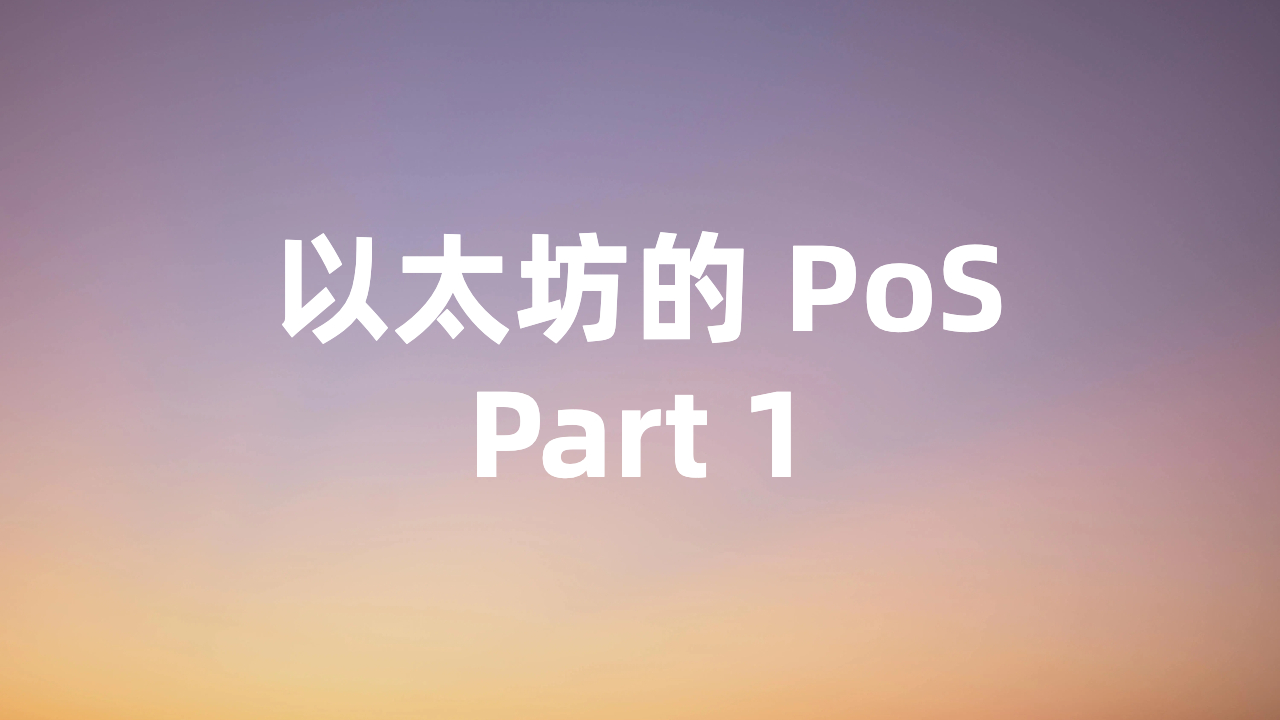
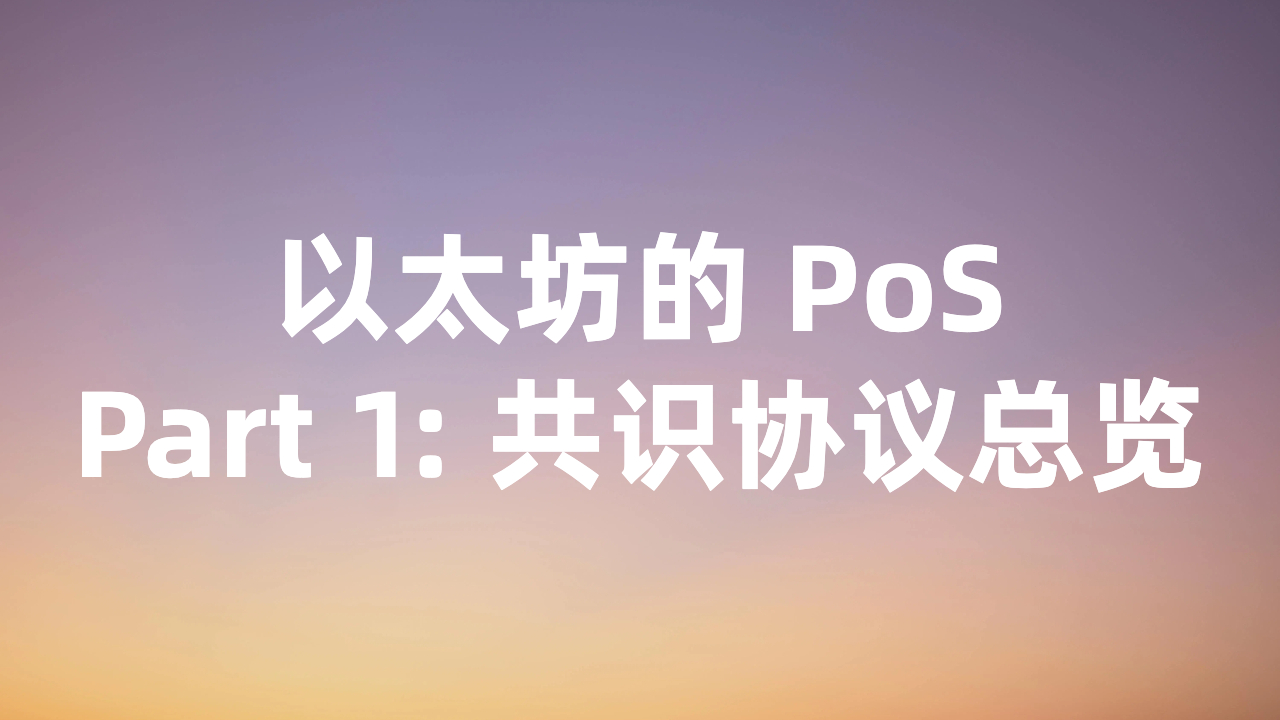
fix

Changed region(s): [[0.375, 0.5194, 0.9375, 0.7028], [0.0625, 0.5194, 0.25, 0.6722], [0.2812, 0.5194, 0.3438, 0.6722]]

diff --git a/_includes/head.html b/_includes/head.html
@@ -1,6 +1,9 @@
 <head>
     {% include meta.html %}
 	{% seo %}
+	{% unless page.no_latex %}
+        {% include latex.html %}
+    {% endunless %}
     <link rel="stylesheet" href="{% if site.baseurl %}{{site.baseurl}}{% else %}{% endif %}/assets/css/style.css">
     <script src="https://kit.fontawesome.com/6a97161b76.js" crossorigin="anonymous"></script>
     <link rel="shortcut icon" href="{% if site.favicon-url %}{{site.favicon-url}}{% else %}{{ 'assets/images/logo.png' | absolute_url }}{% endif %}" type="image/x-icon">

diff --git a/_includes/latex.html b/_includes/latex.html
@@ -1,0 +1,16 @@
+<script type="text/x-mathjax-config">
+MathJax.Hub.Config({
+    TeX: {
+        equationNumbers: {
+            autoNumber: "AMS"
+        }
+    },
+    tex2jax: {
+        inlineMath: [ ['$','$'] ],
+        displayMath: [ ['$$','$$'] ],
+        processEscapes: true,
+    }
+});
+</script>
+<script type="text/javascript" src="https://cdnjs.cloudflare.com/ajax/libs/mathjax/2.7.1/MathJax.js?config=TeX-AMS-MML_HTMLorMML">
+</script>

diff --git a/_posts/2024-08-29-ethereum-pos-p2.md b/_posts/2024-08-29-ethereum-pos-p2.md
@@ -1,0 +1,167 @@
+---
+title: 以太坊的 PoS - Part2 LMD GHOST
+layout: post
+post-image: "/assets/images/ethereum-pos-p2-img/head.jpg"
+tags:
+- ethereum
+- consensus
+- blockchain
+---
+
+# 再看共识协议
+
+---
+
+学习以太坊 PoS 时，可以发现所谓的共识协议不是一个单一的协议，而是以下三个部分的组合。
+
+- **Propose Rule**: 区块发布规则，负责打包区块并发布到链上，比如以太坊的 Propose Rule 是 Proof of Stake，比特币是 Proof of Work，BFT 共识则是通过多轮投票机制对一个提案进行确认并提交。
+- **Fork Choice Rule**: 分叉选择规则，负责在多个分叉中选择出权威链（canonical chain），使系统状态的一致性得到保证，同时也为系统提供了活性，。以太坊使用 LMD GHOST，比特币使用 Longest Chain，而 BFT 共识不会出现分叉，因此选择规则也无从谈起了。
+- **Finality Rule**: 最终确定性规则，负责最终敲定一个区块，使其永远无法被回滚，为该区块提供了绝对的安全性。以太坊使用 Casper FFG，比特币则不存在 Finality Rule，只是随着子块越来越多而无限趋近 Finality，而 BFT 共识每一个区块的提交即确定，Finality 的实现是即时的。
+
+可以发现，BFT 共识（例如前面介绍过的 HotStuff 或者 Tendermint）在这三个方面较为特殊，我们很难从中看出这三种规则，因为它们是浑然一体的。乍一看 BFT 共识协议简单清晰，不会分叉具有很高的安全性，同时每个块都具有最终确定性，但其最大缺点是需要满足恶意节点的权重 $<{1\above{1pt}3}$ 的拜占庭假设，否则就会丧失活性。相比安全性，活性是以太坊优先需要保证的（否则无法正常出块还谈什么安全性），为此以太坊使用了 LMD GHOST 作为 Fork Choice Rule。
+# 一些前置概念
+
+---
+
+下面介绍一些以太坊中的基本概念便于理解后文。
+
+- **Canonical Chain**: 权威链，被 Fork Choice Rule 选中的分叉即为权威链。
+- **Validator Set**: 参与质押的节点即可成为一个 Validator，多个 Validator 组成一个 Validator Set 负责一个 Slot 的出块。每次出块时会从 Validator 中选出一个 Proposer 负责打包区块，这是根据质押金作为权重随机选取的，即 PoS 原理。
+- **Slot**: Slot 是区块之间的最小间隔单位，相当于以太坊中的时间概念，共识是一个接一个 Slot 递进的。Slot 之间间隔为 12s，每个 Slot 出现时网络会尝试出块填充一个 Slot，因此每个 Slot 会对应一个 Validator Set 负责共识。实际上，以太坊会将整个网络的 Validators 分成 32 个 Validator Set，轮流对 32 个 Slot 出块，32 个 Slot 组成一个 Epoch，因此一个 Validator 在一个 Epoch 中只会参与一次出块。注意，Slot 和我们通常说的 Block height 不是一个概念，Slot 中可以有 Block，也可能没有 Block。
+- **Root Block**: Root Block 是应用 Fork Choice Rule 时的开始区块，比如最近一次已经具有 Finality 的区块（在以太坊中即为 Checkpoint 区块）可以作为下一次的 Root Block，Genesis Block 是最初始的 Root Block。
+- **Weight**: 当一个 Proposer 被选中发布了一个新块之后，Validator Set 中的其他 Validator 需要对该块进行验证并投票，投票者的质押金表示了该投票的权重大小，投票权重的累加值即为该区块的权重大小。权重越大表示该区块所在的链得到了越多的认可。
+# 从 GHOST 开始
+
+---
+
+学习 GHOST 的论文是必不可少的，即使它又臭又长。
+以太坊的 LMD GHOST 只是 GHOST 的一个变种，GHOST 全称为 The Greedy Heaviest-Observed Sub-Tree，其原本目的是解决比特币扩容后频繁分叉（块之间发生冲突）造成的安全性下降问题，以取代比特币的 Longest Chain 规则。其实在 GHOST 论文发出之时，以太坊已经采用了一个 GHOST 协议变体辅助 PoW 进行分叉选择了，这使得以太坊可以用较低的成本处理更多的交易，将比特币 10min 的出块时间压缩至 15s。
+比特币的吞吐量是出了名的低，其设置的挖矿难度让出块时间维持在 10 分钟左右。这样做一是因为 PoW 基于一个同步模型，需要足够的间隔时间保证消息能被所有节点接收，二是为了避免产生大量分叉，导致算力分散降低共识安全性。如果要提高比特币的吞吐量，增大区块大小和降低出块时间是最自然的两个方法，不过这样就会令网络中出现大量冲突区块和分叉。导致分叉的原因有两个：
+
+- 网络延迟。可能有两个节点同时基于相同的父区块发布了一个合法区块。
+- 主动攻击。攻击者希望回滚交易，因此尝试主动分叉，一旦攻击链说服了其他节点，那么就可将权威链和上面的交易回滚，这也是 double spending attack 的常见方式。我们在上一篇文章中提到了 long range attack 其实就是分叉攻击的具体形式之一。
+
+下图中，因提高吞吐量出现了大量区块冲突，产生分叉。对于比特币使用的 Longest Chain Rule 来说，攻击者 A 很容易发动攻击，恶意回滚交易。
+
+![image.png](/assets/images/ethereum-pos-p2-img/image1.png)
+
+攻击者 A 私自准备了一条攻击链，此时若使用 Longest Chain 作为权威链（图中蓝色区块所在链），攻击链 A 很容易就能成功替换掉它。这是因为分叉会导致算力的分散，不在最长链上的区块没有任何价值（high wastage and low security），因此攻击链算力不需要达到 50% 就可以完成攻击。
+GHOST 论文中提出了新的 Fork Choice Rule 协议来解决上述问题，The Greedy Heaviest-Observed Sub-Tree，顾名思义，权威链的标准不再是 Longest Chain 而是 Heaviest Chain。当决定哪个分支时，GHOST 认为每个子块都是对其所有祖先的一次认可，因此分支的所有子块都会被纳入权重。如果每个子块的权重为 1，那么可以得到下图中的 GHOST chain 作为权威链（图中绿色区块所在链）。
+
+![image.png](/assets/images/ethereum-pos-p2-img/image2.png)
+
+具体证明过程请见论文，但其实可以这样想：如果一个块后面出现了两个子块（分叉），说明这两个子块在彼此竞争，但其实还存在另一个隐含信息，**即这两个子块都为其父块投了认可票。**这是 longest chain 规则没有考虑到的。
+一言蔽之，GHOST 分叉选择规则没有选择「最长的链」作为权威链，而是选择了「最重的子树」。这是因为任何一个父块的子块不仅仅是对于该父块的一个直接投票（认可），也是对于它所有祖先的间接投票（认可），因此整个子树都应该纳入权重。
+# 为什么不直接使用 GHOST
+
+---
+
+GHOST 协议在原生的 PoS 或 PoW 中作为 Fork Choice Rule 并没有问题，但以太坊的 PoS 中增加了实现 Finality 的 Casper FFG 协议，这就不一样了。
+先简单介绍 Casper FFG（下篇文章会详细介绍），在每共识若干个区块之后，系统会尝试产生一个 Checkpoint 块，这个块以及它所在分支之前的所有区块都被确定，无法被其他分叉回滚。Checkpoint 产生的条件是区块受到 ${2\above{1pt}3}$ 以上 Validator 的认可，即 > 66.6% Stake 权重的投票。而我们所说的 Fork Choice Rule 的使用范围一般是 Checkpoint 之后未确定的部分。
+因此，有可能 Validator Set 对于系统状态的最新认知和 GHOST 协议选择的分支是相互冲突的，如下图。
+
+![image.png](/assets/images/ethereum-pos-p2-img/image3.png)
+
+图中，绿色的分叉权重为 111，黄色为 96，根据 GHOST 规则绿色分叉会赢得胜利，然而黄色链的最后一个区块权重为 65，更接近成为 Checkpoint。为了解决这个问题，Vlad 和 Vitalik 分别提出了 LMD GHOST 协议和 IMD GHOST 协议，IMD GHOST 协议不是基于权重的加和而是基于权重的最大值进行分叉选择，这里对 IMD GHOST 不进行过多介绍，感兴趣可以看[这篇](https://ethresear.ch/t/immediate-message-driven-ghost-as-ffg-fork-choice-rule/2561?u=benjaminion) Vitalik 的文章。
+# LMD GHOST 协议
+
+---
+
+这部分参考了 Vitalik 的[文章](https://vitalik.eth.limo/general/2018/12/05/cbc_casper.html)以及[这个](https://eth2book.info/capella/part2/consensus/lmd_ghost/#incentives-in-lmd-ghost)和[这个](https://hackmd.io/@Gua00va/B1x9vMQnwn)。
+以太坊的 Fork Choice Rule 使用的是 LMD GHOST 协议，所谓 LMD（Latest Message Driven）就是指一个 Validator 最近一次针对某一个块的投票，我们称之为 attestation。下面是 attestation 的结构，`beacon_block_root` 字段为这个投票具体支持的区块。每个 Validator 都保存了所有验证者各自最新的那一次投票：
+```rust
+pub struct AttestationData {
+    pub slot: Slot,
+    pub index: u64,
+
+    // LMD GHOST vote
+    pub beacon_block_root: Hash256,
+
+    // FFG Vote
+    pub source: Checkpoint,
+    pub target: Checkpoint,
+}
+```
+当然，以太坊的 Propose Rule 还是 Proof of Stake，即根据 Stake 权重随机选取 Proposer。LMD GHOST 只是负责在出现多个分叉时根据一定规则告诉你要选择哪个分支，如果我们将 Fork Choice Rule 使用一个函数表示，那将是：
+```go
+function GetHead(Store) → HeadBloc
+```
+Store 是当前的状态数据，需要说明的是，Store 状态和时间有关，这么做的目的是实现区块的 Finality。一旦 Validator 确定了一个区块，即使之后发现了一个与之冲突的区块，也无法修改它之前的选择（个人猜测这使得以太坊最终选择了 LMD GHOST 而非 IMD GHOST，具体可看[这篇](https://ethresear.ch/t/immediate-message-driven-ghost-as-ffg-fork-choice-rule/2561?u=benjaminion)文章）。时间参量使得 Validator 做过的事情无法后悔，如果删掉 Store 仅提供创始块是无法恢复完整区块链数据的（见 Part1 中 Vlad 提供的建议）。
+LMD 表示在选取 HeadBlock 考虑分叉权重时，只需要考虑每个 Validator 最近的一次投票，而不像 GHOST 那样考虑所有 Validator 历史上的全部投票，换句话说，LMD 仅考虑 Validator 最近一次投票的区块的权重并进行求和，而不会考虑整个子树上所有区块的权重。
+当然即使是这样，当恶意节点超过一定阈值仍然可能会让分叉攻击成功，不过由于 LMD GHOST 还具有 sticky 性质，会使「突然叛变」行为容易被系统检测，从而能够对叛变者进行惩罚，这将在后文进行介绍。
+## 分叉选择逻辑
+下面举个例子介绍 LMD GHOST 协议选择分叉的基本逻辑。
+假设网路中仅包含 A, B, C, D, E 这 5 个节点，为了简化过程，我们令它们的质押金相同（权重相同），且将一个 Epoch 分为 10 个 Slot，这样每个 Slot 的 Validator Set 只有一个节点。每个 Slot 出块后，只需要 Proposer 自己给自己投票就行了。下图中，5 个节点会轮流负责签名出块，形成一条分叉的 Block Tree：
+
+![image.png](/assets/images/ethereum-pos-p2-img/image4.png)
+
+图中，绿色的区块由于肯定包含了 Proposer 自己的 attestation，因此可以作为这 5 个 Validator 对应的 Latest Message。由于所有 Validator 的权重一致，因此每个区块算作对其所在分支的一份同意投票，每一个区块拥有的投票数量即为其直接子区块的投票份额累积，如下图。
+
+![image.png](/assets/images/ethereum-pos-p2-img/image5.png)
+
+当使用 LMD GHOST 决定权威链时，要从 root block 开始选择权重最大的路径，即 5→5→4→4→2→1。（这个例子中恰好是 Longest Chain，但这只是巧合）
+
+![image.png](/assets/images/ethereum-pos-p2-img/image6.png)
+
+## 权重计算
+上面例子为了便于理解，令每个 Validator Set 中仅有一个节点，所以 Proposer 不需要额外收集投票。实际上每一个 Block 发布后需要收集 Validator Set 中其他验证者投票，并以投票权重之和作为该 Block 的最终权重。一个 Block 的权重等于该 Block 收到的 attestation 投票的权重总和，加上其子块提供的权重，并且在计算权重时仅考虑 Validator 最后一次 attestation，如下图中 Validator Set 为 A,B,C,D,E 5 个节点。
+
+![image.png](/assets/images/ethereum-pos-p2-img/image7.png)
+
+## Sticky 性质
+LMD GHOST 具有 sticky 的性质：**节点一旦给某一个分支投票就倾向于继续为这个分支投票，除非一定比例的节点发生突然叛变（会收到惩罚）。**比如下图中 A,C 同时叛变到 B 的攻击链上时，这条攻击链才有可能成功。
+下面是 Vitalik 举的例子。
+
+![image.png](/assets/images/ethereum-pos-p2-img/image8.png)
+
+还是 A,B,C,D,E 5 个节点分到了 10 个 Slot 中，且 Stake 相同，因此区块本身即可表示一个权重为 1 的投票。图中的 B 作为恶意节点尝试独自构建一条攻击链，正常情况下，剩余 4 个诚实节点并不会买账，会根据 LMD GHOST 继续选择下面的一条链作为权威链（canonical chain）。
+图中，每个节点都分别进行了两次出块投票，我们只关注第二次出块时的分叉选择，并查看该节点在选择分叉时的视图情况如下图。
+
+![image.png](/assets/images/ethereum-pos-p2-img/image9.png)
+
+图中，绿色表示当前 Proposer 要打包的区块，蓝色表示所有 Validator 最新产生的区块（投票），所以蓝色的块决定了绿色块即将选择的分支。比如在 A 的视图中，当 A 尝试进行第二次投票时看到的是 B 投给了上面的链，A, C, D, E 投给了下面，因此 `Bottom : Top = 4 : 1`。
+此处说明一下，D 和 E 的视图中之所以没有从 C 第二次投票之后继续出块可能是因为 D 和 E 并没有看到 C 的第二个块（网络延迟等原因），就算看到了也不会影响最后的分叉选择。这里也说明了即使是诚实的 Validator 也有可能没有把票投给最终的合法链（因此不应当受到惩罚）。
+从这个过程就可以发现，诚实节点更倾向于沿着之前的权威链继续出块，而没有动力去频繁更换分支的选择，除非此时有两个节点发生「恶意叛变」，投票给上面的链，但这很容易被发现并收到惩罚。
+
+![image.png](/assets/images/ethereum-pos-p2-img/image10.png)
+
+> we can very generally say that any validator's new message will have the same opinion as their previous messages, unless two other validators have already switched sides first.
+
+## 安全性分析
+安全性由 Finality 决定，以太坊使用了 Casper FFG 作为 Finality Rule，这是一个 BFT 共识机制，像 Tendermint 一样，我们使用两轮投票实现一个区块的 Finality。然而在没有 Casper 的情况下，LMD GHOST 的是否可以提供部分安全性，又是如何量化的？
+我们定义一个参数$q$，称为安全值，表示一条分支链得到 Validator 投票的权重与总 Validator 权重的比值。例如，5 个 Validator 中有 4 个 选择该分支，那么$q = 0.8$。我们设$q_b$为$b$这个块的安全值，那么从$b$块发布开始，随着其子树上面的投票权重越来越大，$q_b$也会越来越高。一般认为当安全值大于某个阈值，即$q_b > q_{min}$时，块$b$成为了一个真正「安全的」区块，无法被攻击回滚。如下图。
+
+[![pAAY5rD.png](https://s21.ax1x.com/2024/08/29/pAAY5rD.png)](https://imgse.com/i/pAAY5rD)
+
+对于 LMD GHOST 来说，阈值$q_{min}$被定义为 $β + {1\above{1pt}2}$，其中 $β$ $β$表示恶意节点控制的 Stake 权重值，一般来说认为小于 ${1\above{1pt}3}$。也就是说当 Validator 全部是诚实节点时，只要块 $b$ 收获一半 Validator 的认可，该块就会被「最终确认」。
+将 Finality Rule 和 Fork Choice Rule 解耦最大的好处就是以太坊在保证活性的前提下，即使区块的 Finality Rule 执行失败（如恶意节点数量 $>{1\above{1pt}3}$），也可以由客户端自己判断当前安全性。如果客户端觉得当前区块的 $q$ 值过小，可以选择继续等待，等待 Casper FFG 执行成功或者 $q$ 值达到了自己的要求。客户端使用自己规则来定义 Finality 标准，而不用在协议中设置一个阈值常量。
+# LMD GHOST 的激励和惩罚
+
+---
+
+以下内容目前片面地参考了这篇[文章](https://eth2book.info/capella/part2/consensus/lmd_ghost/#incentives-in-lmd-ghost)，笔者之后会查阅源码和其他资料以保证准确性。
+## 激励
+共识协议不仅仅是一个计算机科学问题，更是一个经济学问题。我们通过经济学手段鼓励诚实行为，惩罚恶意行为，最终使共识结果安全可信。这就像是一个社会的运行，除了使用科技和法律的手段进行治理，也要运用宗教、道德进行进一步约束。
+区块的 Proposer（发布区块） 和 Validator（验证区块并投票） 如果诚实地选择权威链后应当进行激励，否则进行惩罚。其中 Proposer 诚实选择分叉的动力显而易见：如果选择了错误的分叉，它发布的区块最终将大概率被遗弃，导致无法获得出块奖励，因此对 Proposer 分叉选择的激励是间接的。而 Validator 在收到区块后，如果验证区块合法将会对该区块签名投票，这个签名将会出现在下一个 Slot 的区块中作为诚实的证据，该 Validator 会因此直接收到一小部分奖励，而收录该 Validator 签名的 Proposer 也会按比例获得其中一部分激励。
+> validators are directly rewarded for voting accurately. When a validator makes an accurate head vote, and its attestation is included in a block in the very next slot, it receives [a micro reward](https://eth2book.info/capella/part2/incentives/rewards/#introduction). A perfectly performing validator will gain about 22% of its total protocol rewards from making accurate head votes. Proposers, in turn, are incentivised to include such attestations in blocks as they receive a proportionate micro, micro reward for each one they manage to get in.
+
+_个人认为这里可以用来解决 HotStuff 中 Leader 恶意控制投票节点列表的问题：由于在 HotStuff 中哪些节点投了票完全是 Leader 一个人说的算，因此 Leader 在凑足 ${2\above{1pt}3}+1$ 的投票后可以故意的排除一些自己不喜欢节点，包含一些自己喜欢的节点的投票。而令 Leader 一部分激励来收录节点的投票或许可以解决这个问题。_
+说明一下，如果 Validator 投票的区块最终不是那条合法链，Validator 也不会收到惩罚，因为由于网络延迟等原因 Validator 是有可能没有看到足够信息就进行投票的，贸然惩罚是不公平的。
+## 惩罚
+LMD GHOST 会对 nothing at stake 行为进行惩罚。在 [Part1](https://xufeisofly.github.io/blog/ethereum-pos-p1) 文章中提到，nothing at stake 是指 PoS 共识过程中，由于 Validator 对某分支投票没有任何成本（只需要签名，不像 PoW 需要消耗大量算力），因此可以对所有的分支都进行投票来规避投错票的风险。这种行为是易于检测的，一旦被发现，系统会罚没该 Validator 的部分 Stake，并强制该节点退出 Validator Set。
+Proposer 同样存在 nothing at stake 行为，一个 Proposer 可能选择同时选择多条分支打包区块而不是只选择权威链，以避免日后自己选择的分支被回滚的风险。与 Validator 的 nothing at stake 惩罚不同，Proposer 的此类行为是通过第三方检测的，第三方发现后会提交一个证明，由之后的区块发布时中会打包，完成系统对 Proposer 的罚没。
+# 总结和思考
+
+---
+
+共识协议由 Propose Rule、Fork Choice Rule 以及 Finality Rule 组成。以太坊的 Fork Choice Rule 使用了 LMD GHOST 协议，放弃了简单的 Longest Chain 作为权威链选择的规则，这在吞吐量提高导致出现大量分叉时确实能提供一定的安全性。另外 Fork Choice Rule 协议本身为系统提供了活性，这与 BFT 共识不同，即使恶意节点数量超过某个阈值，安全性大幅降低，也不会影响系统正常出块，这本质上是因为 Chain-Based 共识协议不像 BFT-Based 共识协议那样有一个需要凑足 ${2\above{1pt}3}$ 权重的强阈值要求。
+然而网络延迟或恶意攻击导致频繁分叉不可避免，造成系统的安全性不是一成不变的，会不断发生波动（如 attestation 最分散时攻击者作恶的难度最低）。攻击者可以早早准备好一个恶意区块，然后等待一个系统安全性最弱的时机发布出去，这就是 Long Range Attack。为了解决这个问题以太坊引入了 Casper FFG 协议为共识提供了 Finality，我将在下一篇文章详细讲述。
+# 推荐阅读
+
+---
+
+- [https://medium.com/coinmonks/run-your-own-ethereum-validator-part-1-pbft-casper-ffg-casper-cbc-and-lmd-ghost-e68e8461acf8](https://medium.com/coinmonks/run-your-own-ethereum-validator-part-1-pbft-casper-ffg-casper-cbc-and-lmd-ghost-e68e8461acf8)
+- [https://eth2book.info/capella/part2/consensus/lmd_ghost/#finding-the-head-block](https://eth2book.info/capella/part2/consensus/lmd_ghost/#finding-the-head-block)
+- [https://medium.com/coinmonks/an-in-depth-look-at-the-ghost-protocol-part-2-how-ghost-works-50e49edf7a52](https://medium.com/coinmonks/an-in-depth-look-at-the-ghost-protocol-part-2-how-ghost-works-50e49edf7a52)
+- [https://vitalik.eth.limo/general/2018/12/05/cbc_casper.html](https://vitalik.eth.limo/general/2018/12/05/cbc_casper.html)
+- [https://github.com/ethereum/annotated-spec/blob/master/phase0/fork-choice.md](https://github.com/ethereum/annotated-spec/blob/master/phase0/fork-choice.md)

diff --git a/_posts/2024-08-20-ethereum-pos-p1.md b/_posts/2024-08-20-ethereum-pos-p1.md
@@ -1,5 +1,5 @@
 ---
-title: 以太坊的 PoS - Part 1
+title: 以太坊的 PoS - Part1 共识协议总览
 layout: post
 post-image: "/assets/images/ethereum-pos-p1-img/head.jpg"
 tags:
